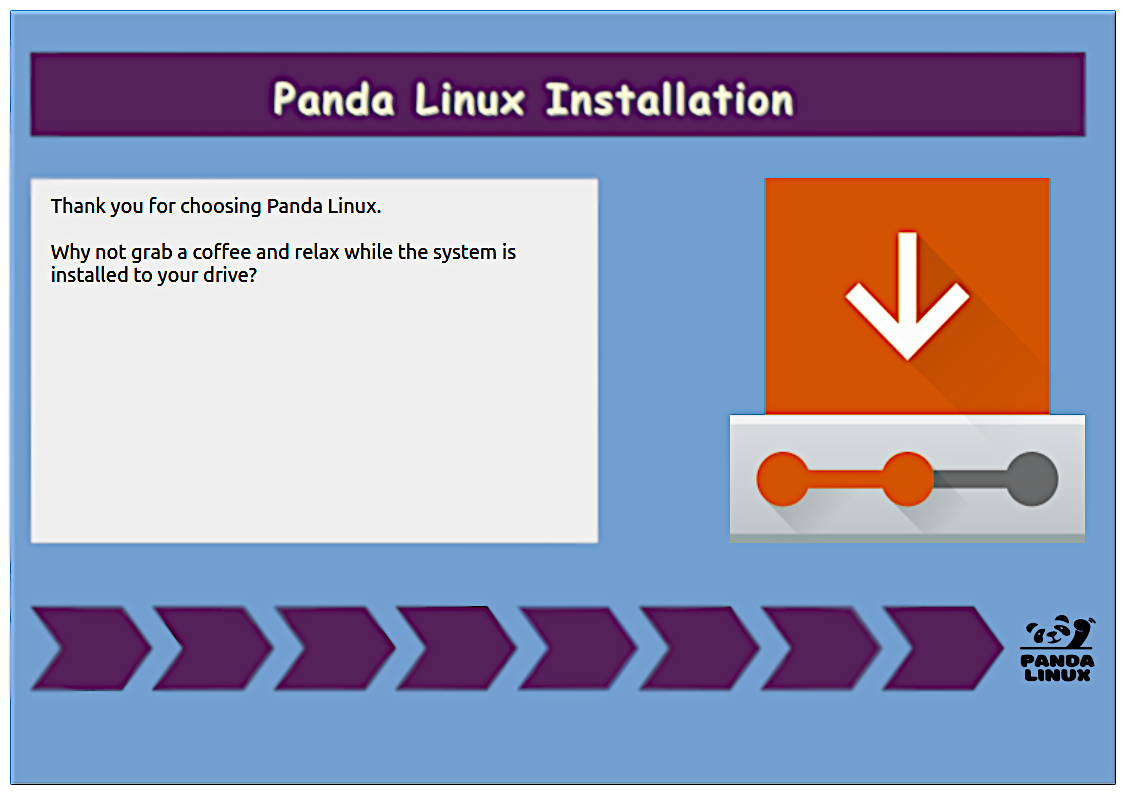
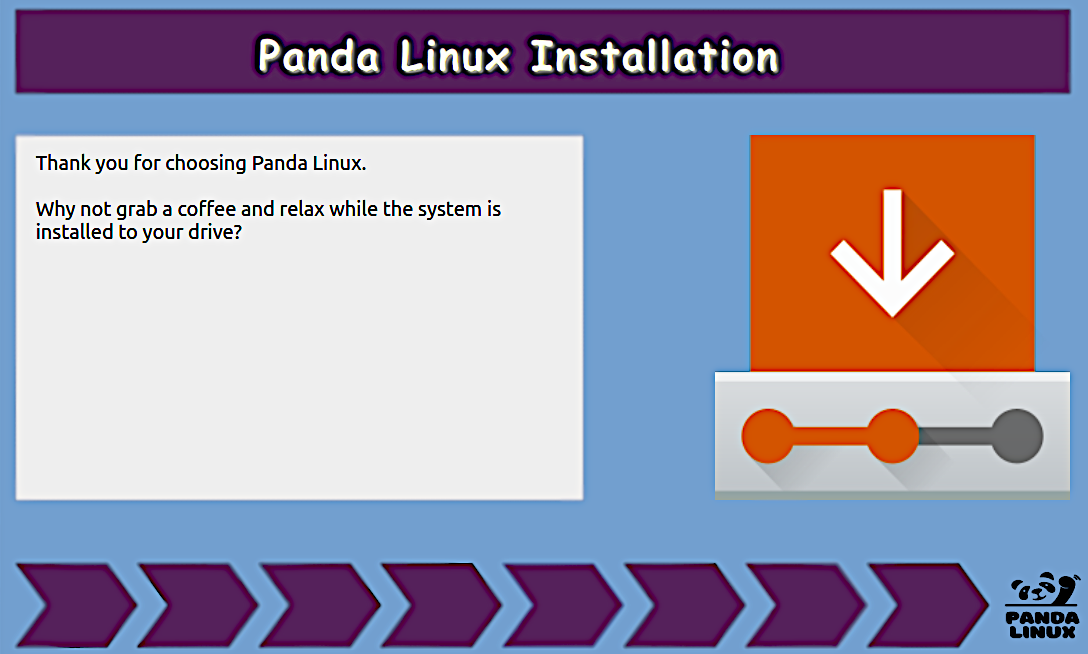
Tidied calamares slideshow.

diff --git a/airootfs/etc/calamares/branding/panda/show.qml b/airootfs/etc/calamares/branding/panda/show.qml
@@ -17,7 +17,7 @@
  */
 
 /*
- * Slides images dimensions are 800x566px.
+ * Slides images dimensions are 760x480px.
  */
 
 import QtQuick 2.0;
@@ -39,7 +39,7 @@ Presentation
         Image {
             id: background1
             source: "slide1.png"
-            width: 800; height: 566
+            width: 760; height: 480
             fillMode: Image.PreserveAspectFit
             anchors.centerIn: parent
         }
@@ -48,7 +48,7 @@ Presentation
             anchors.top: background1.bottom
             text: ""
             wrapMode: Text.WordWrap
-            width: 800
+            width: 760
             horizontalAlignment: Text.Center
         }
     }
@@ -58,7 +58,7 @@ Presentation
         Image {
             id: background2
             source: "slide2.png"
-            width: 800; height: 566
+            width: 760; height: 480
             fillMode: Image.PreserveAspectFit
             anchors.centerIn: parent
         }
@@ -67,7 +67,7 @@ Presentation
             anchors.top: background2.bottom
             text: ""
             wrapMode: Text.WordWrap
-            width: 800
+            width: 760
             horizontalAlignment: Text.Center
         }
     }
@@ -77,7 +77,7 @@ Presentation
         Image {
             id: background3
             source: "slide3.png"
-            width: 800; height: 566
+            width: 760; height: 480
             fillMode: Image.PreserveAspectFit
             anchors.centerIn: parent
         }
@@ -86,7 +86,7 @@ Presentation
             anchors.top: background3.bottom
             text: ""
             wrapMode: Text.WordWrap
-            width: 800
+            width: 760
             horizontalAlignment: Text.Center
         }
     }
@@ -96,7 +96,7 @@ Presentation
         Image {
             id: background4
             source: "slide4.png"
-            width: 800; height: 566
+            width: 760; height: 480
             fillMode: Image.PreserveAspectFit
             anchors.centerIn: parent
         }
@@ -105,7 +105,7 @@ Presentation
             anchors.top: background4.bottom
             text: ""
             wrapMode: Text.WordWrap
-            width: 800
+            width: 760
             horizontalAlignment: Text.Center
         }
     }
@@ -115,7 +115,7 @@ Presentation
         Image {
             id: background5
             source: "slide5.png"
-            width: 800; height: 566
+            width: 760; height: 480
             fillMode: Image.PreserveAspectFit
             anchors.centerIn: parent
         }
@@ -124,7 +124,7 @@ Presentation
             anchors.top: background5.bottom
             text: ""
             wrapMode: Text.WordWrap
-            width: 800
+            width: 760
             horizontalAlignment: Text.Center
         }
     }
@@ -134,7 +134,7 @@ Presentation
         Image {
             id: background6
             source: "slide6.png"
-            width: 800; height: 566
+            width: 760; height: 480
             fillMode: Image.PreserveAspectFit
             anchors.centerIn: parent
         }
@@ -143,7 +143,7 @@ Presentation
             anchors.top: background1.bottom
             text: ""
             wrapMode: Text.WordWrap
-            width: 800
+            width: 760
             horizontalAlignment: Text.Center
         }
     }
@@ -153,7 +153,7 @@ Presentation
         Image {
             id: background7
             source: "slide7.png"
-            width: 800; height: 566
+            width: 760; height: 480
             fillMode: Image.PreserveAspectFit
             anchors.centerIn: parent
         }
@@ -162,7 +162,7 @@ Presentation
             anchors.top: background1.bottom
             text: ""
             wrapMode: Text.WordWrap
-            width: 800
+            width: 760
             horizontalAlignment: Text.Center
         }
     }
